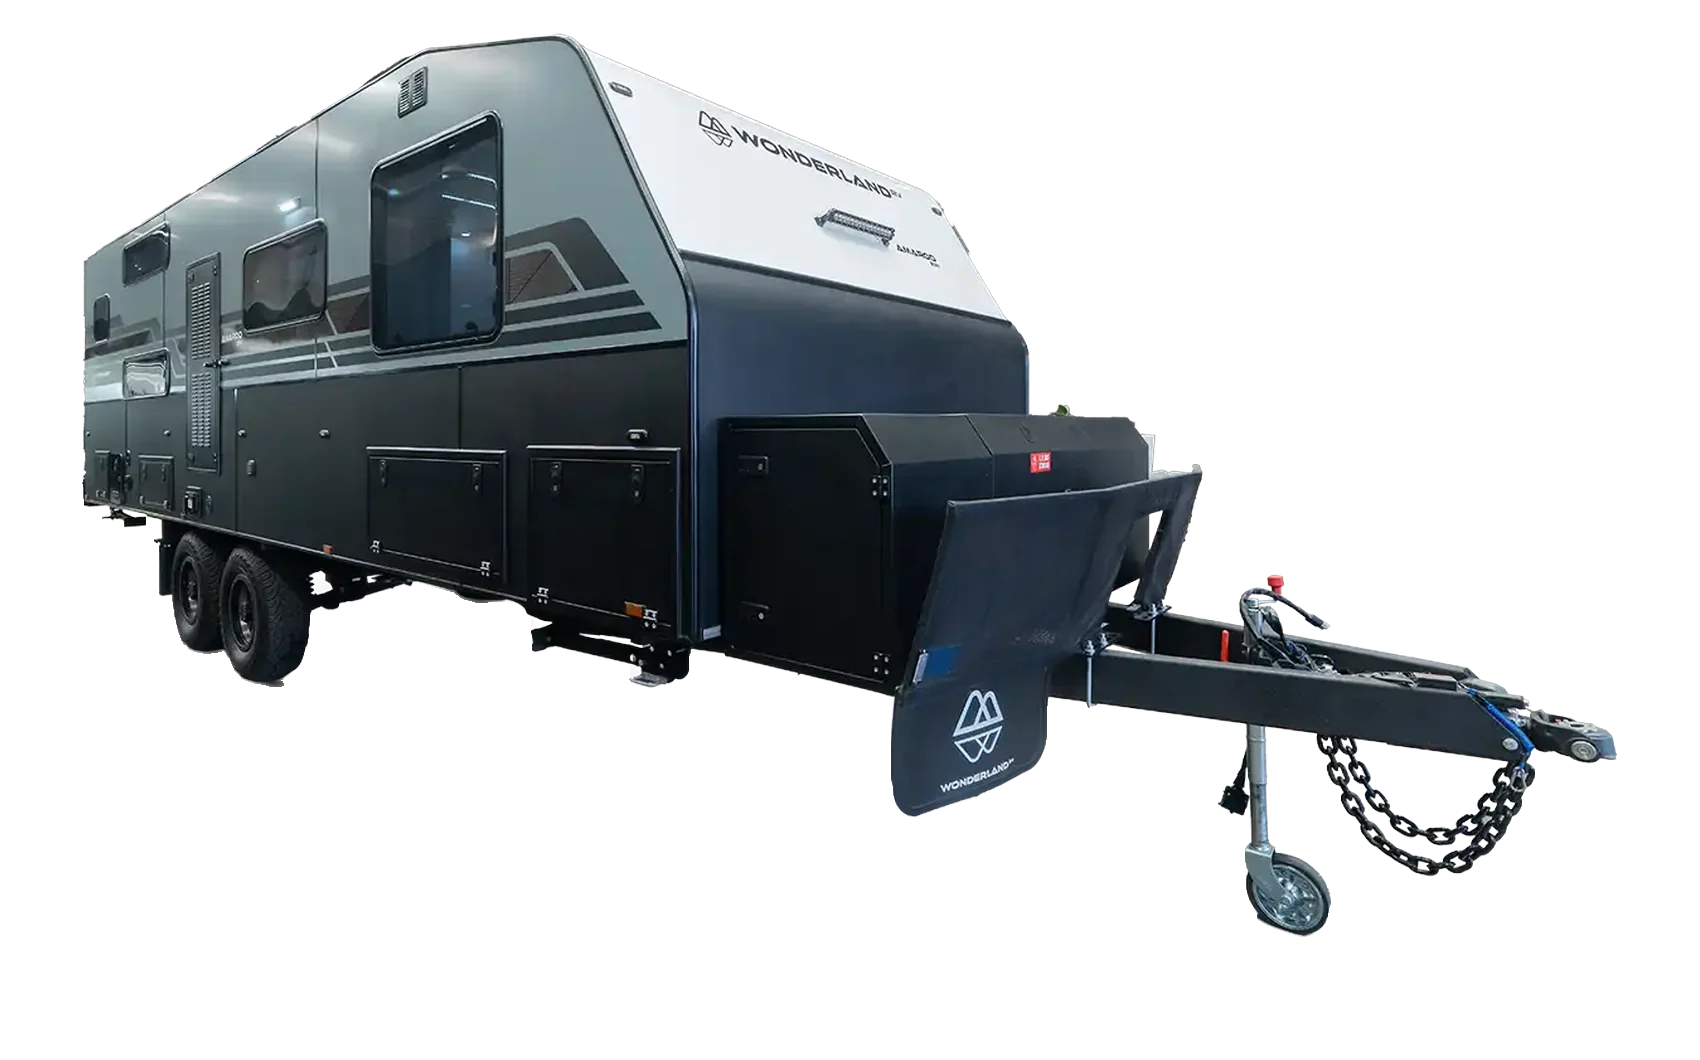
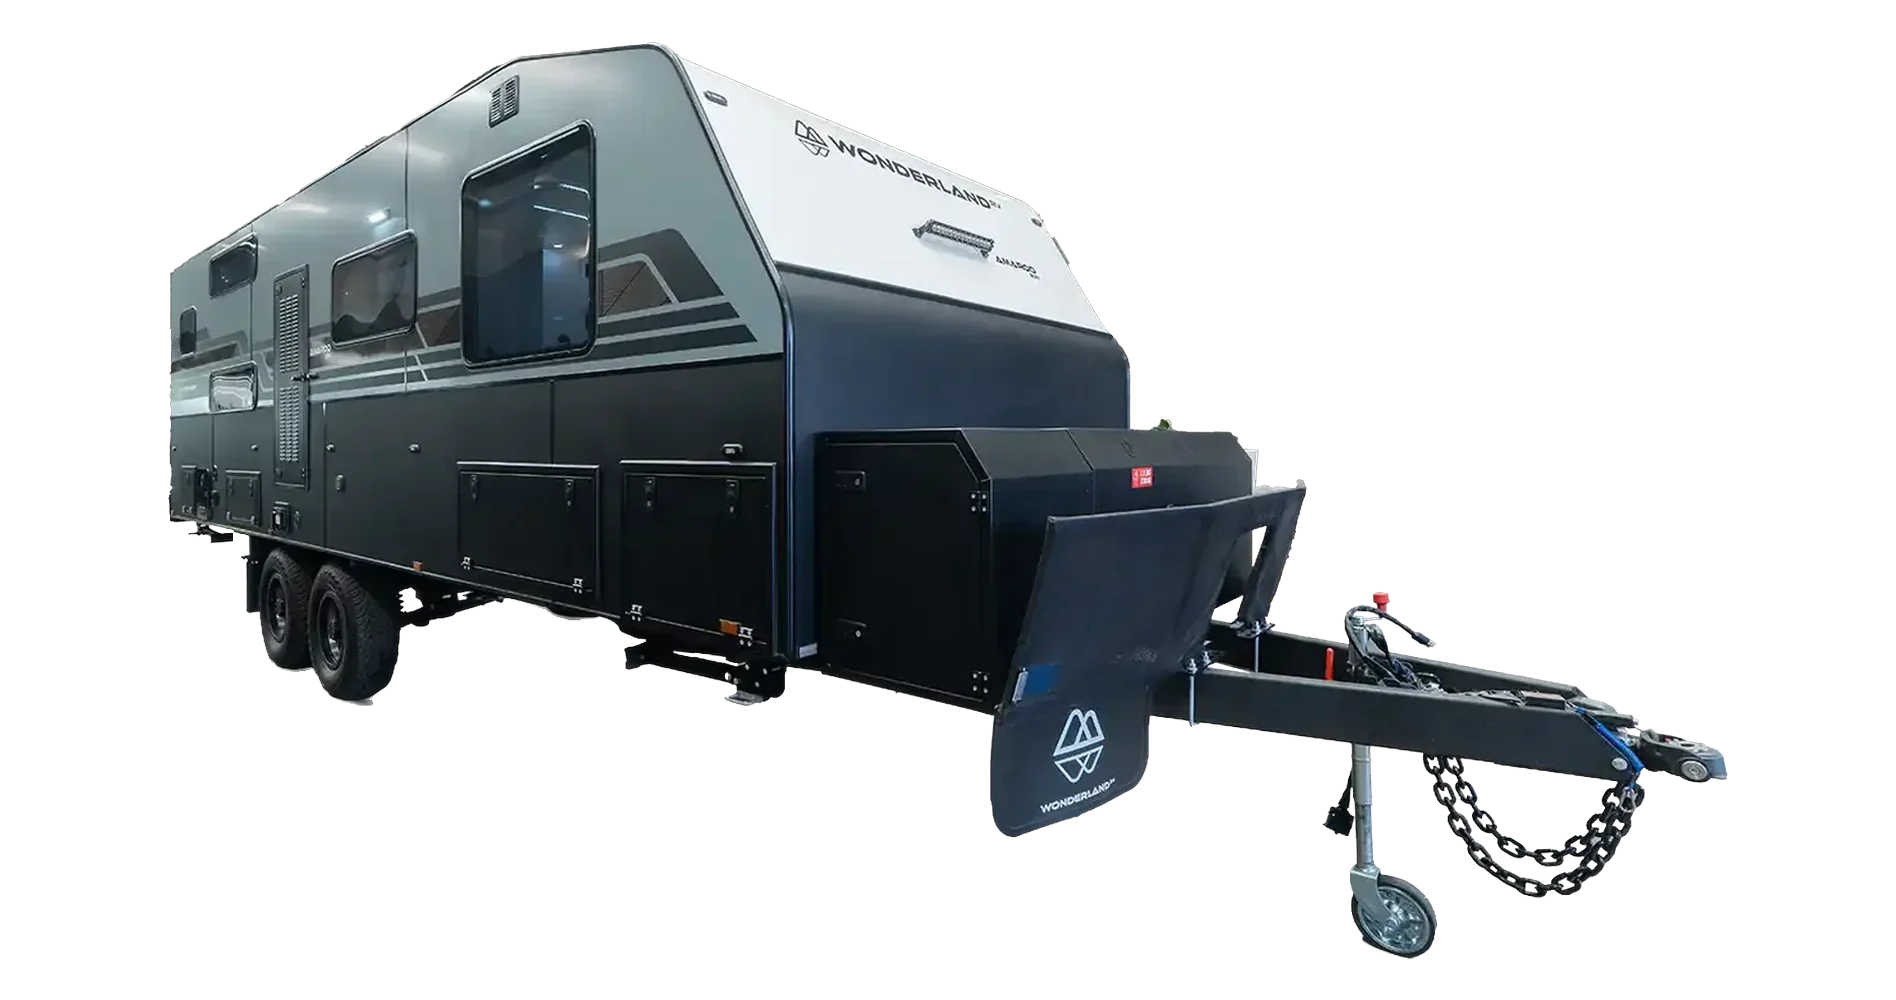
Range: cut-outs cropped to a common baseline; the vans get larger
Each canvas is re-cut to one size with every van at one height and a 4%
bottom margin, so all four stand on the same line -- they did not before,
because each canvas still reserved the footprint of a shadow that had been
removed, and every shadow was a different size. Canvas aspect goes 1.604 to
1.896, so the viewed van renders 11.60rem wide rather than 9.82, and the
neighbour offset for touching follows it from 42.1% to 49.8%.

Changed region(s): [[0.0312, 0.031, 0.9665, 0.961]]

diff --git a/home.html b/home.html
@@ -6,11 +6,11 @@
 <title>Wonderland RV — Luxury Off-Road Caravans</title>
 <meta name="description" content="Wonderland RV's bespoke off-road caravans combine the comforts of a boutique hotel with the freedom to explore Australia's rugged beauty.">
 <link rel="icon" href="assets/img/wonderland-rv-logo.png">
-<link rel="stylesheet" href="assets/css/styles.css?v=234">
-<link rel="stylesheet" href="assets/css/type-compact.css?v=234">
-<link rel="stylesheet" href="assets/css/ambassadors.css?v=234">
-<link rel="stylesheet" href="assets/css/homepage.css?v=234">
-<link rel="stylesheet" href="assets/css/range-viewer.css?v=234">
+<link rel="stylesheet" href="assets/css/styles.css?v=235">
+<link rel="stylesheet" href="assets/css/type-compact.css?v=235">
+<link rel="stylesheet" href="assets/css/ambassadors.css?v=235">
+<link rel="stylesheet" href="assets/css/homepage.css?v=235">
+<link rel="stylesheet" href="assets/css/range-viewer.css?v=235">
 </head>
 <body class="home">
 
@@ -413,7 +413,7 @@
   <div class="amb-more-strip" tabindex="0" aria-label="The Wonderlanders">
     <div class="wl-card">
       <div class="wl-card-media ph" data-ph="AMBASSADOR PHOTO — The Feel Good Family">
-        <img src="assets/img/ambassadors/feel-good-family.jpg?v=234" alt="Katie, Paul and Jasper of The Feel Good Family with their Wonderland RV Solara" onload="this.parentElement.classList.remove('ph')" onerror="this.remove()">
+        <img src="assets/img/ambassadors/feel-good-family.jpg?v=235" alt="Katie, Paul and Jasper of The Feel Good Family with their Wonderland RV Solara" onload="this.parentElement.classList.remove('ph')" onerror="this.remove()">
       </div>
       <div class="wl-card-name">
         <div class="wl-card-head">
@@ -472,7 +472,7 @@
     </div>
     <div class="wl-card">
       <div class="wl-card-media ph" data-ph="AMBASSADOR PHOTO — The Kiwi Van Life">
-        <img src="assets/img/ambassadors/kiwi-van-life.jpg?v=234" alt="Rorden, Cass, Jed and Lexi of The Kiwi Van Life" onload="this.parentElement.classList.remove('ph')" onerror="this.remove()">
+        <img src="assets/img/ambassadors/kiwi-van-life.jpg?v=235" alt="Rorden, Cass, Jed and Lexi of The Kiwi Van Life" onload="this.parentElement.classList.remove('ph')" onerror="this.remove()">
       </div>
       <div class="wl-card-name">
         <div class="wl-card-head">
@@ -912,14 +912,14 @@
   </div>
 </footer>
 
-<script src="assets/js/video-embed.js?v=234"></script>
-<script src="assets/js/home.js?v=234"></script>
-<script src="assets/js/reviews.js?v=234"></script>
-<script src="assets/js/footer.js?v=234"></script>
-<script src="assets/js/budget.js?v=234"></script>
-<script src="assets/js/faq.js?v=234"></script>
-<script src="assets/js/range-viewer.js?v=234"></script>
-<script src="assets/js/wl-strip.js?v=234"></script>
-<script src="assets/js/nav.js?v=234"></script>
+<script src="assets/js/video-embed.js?v=235"></script>
+<script src="assets/js/home.js?v=235"></script>
+<script src="assets/js/reviews.js?v=235"></script>
+<script src="assets/js/footer.js?v=235"></script>
+<script src="assets/js/budget.js?v=235"></script>
+<script src="assets/js/faq.js?v=235"></script>
+<script src="assets/js/range-viewer.js?v=235"></script>
+<script src="assets/js/wl-strip.js?v=235"></script>
+<script src="assets/js/nav.js?v=235"></script>
 </body>
 </html>

diff --git a/assets/css/range-viewer.css b/assets/css/range-viewer.css
@@ -26,7 +26,7 @@
   --rule:  #e4e2de;
   --dim:   #6b6158;
   --plate: var(--col);           /* the van's slot: the content column wide  */
-  --nb:    42.1%;                /* touching: see the note below            */
+  --nb:    49.8%;                /* touching: see the note below            */
   --step:  .78s cubic-bezier(.33,0,.18,1);
 
   /* ONE LADDER OF GAPS, taken off the sections either side of this one:
@@ -65,7 +65,7 @@
    room for the browser's own chrome, at every width, without a media query.
 
    5.10 held the section at 11.29rem = 0.475 of the width, inside that rule.
-   6.12 -- the viewed van 20% bigger, 9.82rem across -- takes it to 12.31rem
+   6.12 -- the viewed van 11.60rem across, after the re-crop -- takes it to 12.31rem
    = 0.518, about 995px at 1920. That wants a window around 1100 tall to show
    in full, so on a 1080 screen the last of the band will be just under the
    fold. Going back under the rule means taking 0.43rem off somewhere else;
@@ -87,11 +87,16 @@
 /* HOW FAR OUT A NEIGHBOUR SITS. Driven by --nb so the gap can be changed in
    one place without touching the scale.
 
-     centre van half-width = stage height x 1.604 / 2 = 6.12 x 0.802 = 4.91rem
-     neighbour  half-width = that x .393                             = 1.93rem
-     offset for a gap of g = 4.91 + g + 1.93 = 6.84 + g
+     centre van half-width = stage height x 1.896 / 2 = 6.12 x 0.948 = 5.80rem
+     neighbour  half-width = that x .393                             = 2.28rem
+     offset for a gap of g = 5.80 + g + 2.28 = 8.08 + g
 
-   So --nb is (6.84 + g) / 16.24 as a percentage, and g = 0 gives 42.1%.
+   So --nb is (8.08 + g) / 16.24 as a percentage, and g = 0 gives 49.8%.
+
+   1.896 is the cut-outs' canvas aspect, and it changed when they were
+   re-cropped: the old 1.604 reserved the footprint of shadows that are no
+   longer there. Anything in here derived from it has to be redone whenever
+   those images are.
 
    The neighbour's scale is .393, not .471: it is a fraction of the SLOT, so
    when the stage grew 20% the neighbours would have grown with it. .471 /

diff --git a/assets/js/range-viewer.js b/assets/js/range-viewer.js
@@ -82,10 +82,11 @@
   function buildStage() {
     [].slice.call(stage.querySelectorAll(".rvx-van")).forEach(function (x) { x.remove(); });
     stage.insertAdjacentHTML("afterbegin", MODELS.map(function (m, k) {
-      /* the cut-outs were re-cut to drop their baked-in ground shadows, so
-         they need a version of their own -- nothing else would tell a
-         browser holding the old ones to go and get them again */
-      var src = "assets/img/home/range/" + m.id + "-34.webp?v=2";
+      /* the cut-outs carry a version of their own: they have been re-cut
+         twice now, first to drop the baked-in shadows and then to crop the
+         empty canvas those shadows had been reserving, and nothing else
+         would tell a browser holding the old ones to fetch them again */
+      var src = "assets/img/home/range/" + m.id + "-34.webp?v=3";
       return '<div class="rvx-van" data-k="' + k + '">' +
         '<img src="' + src + '" alt="' + m.name + '" onerror="this.remove();">' +
       '</div>';
